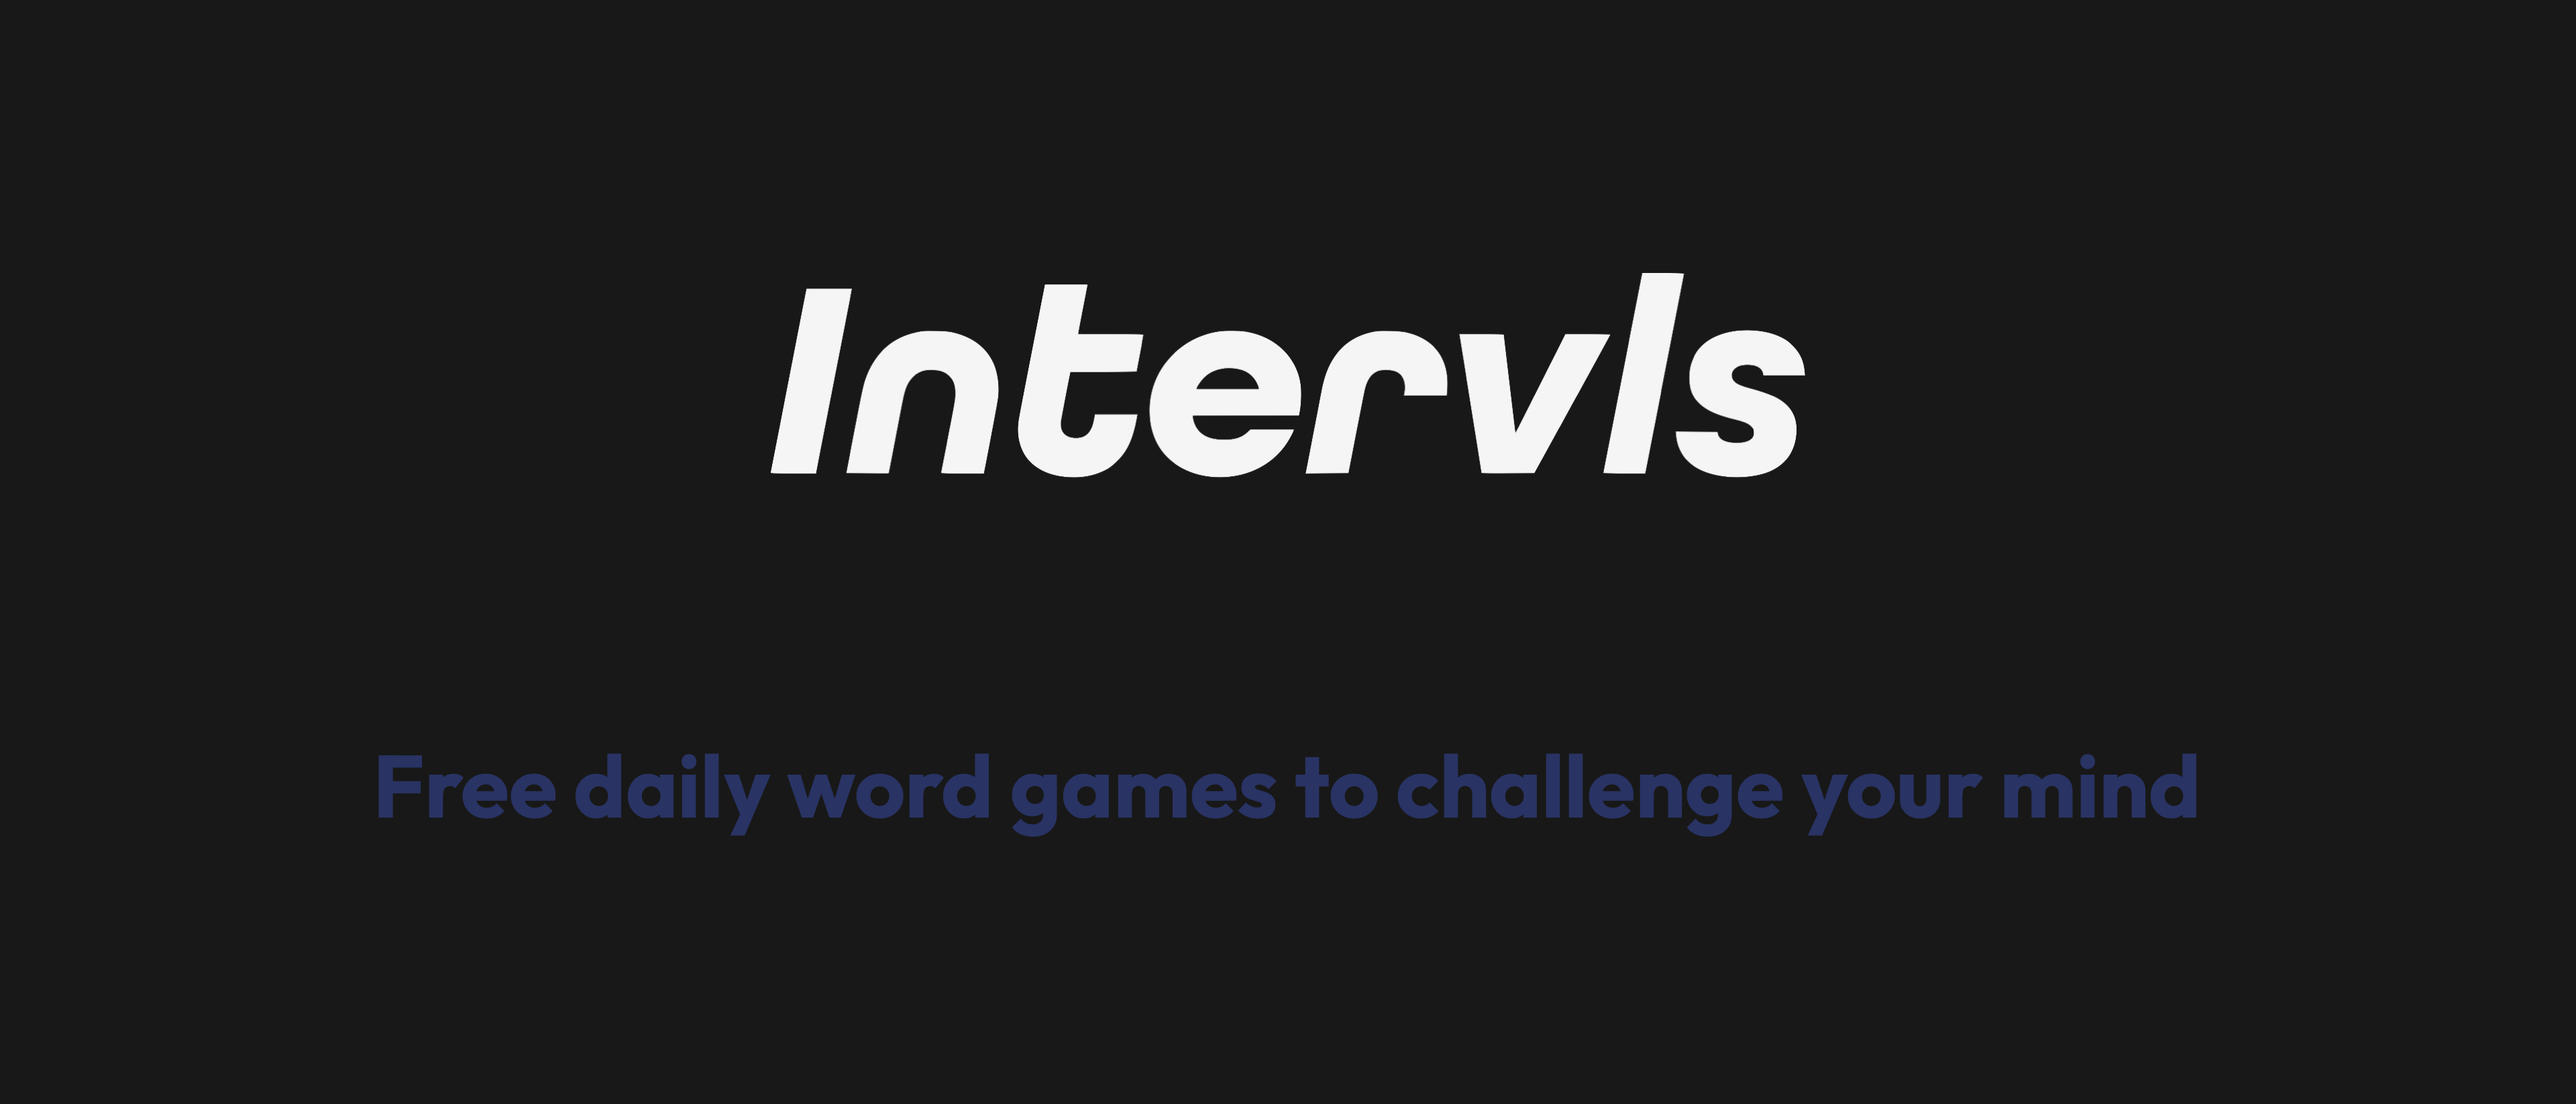
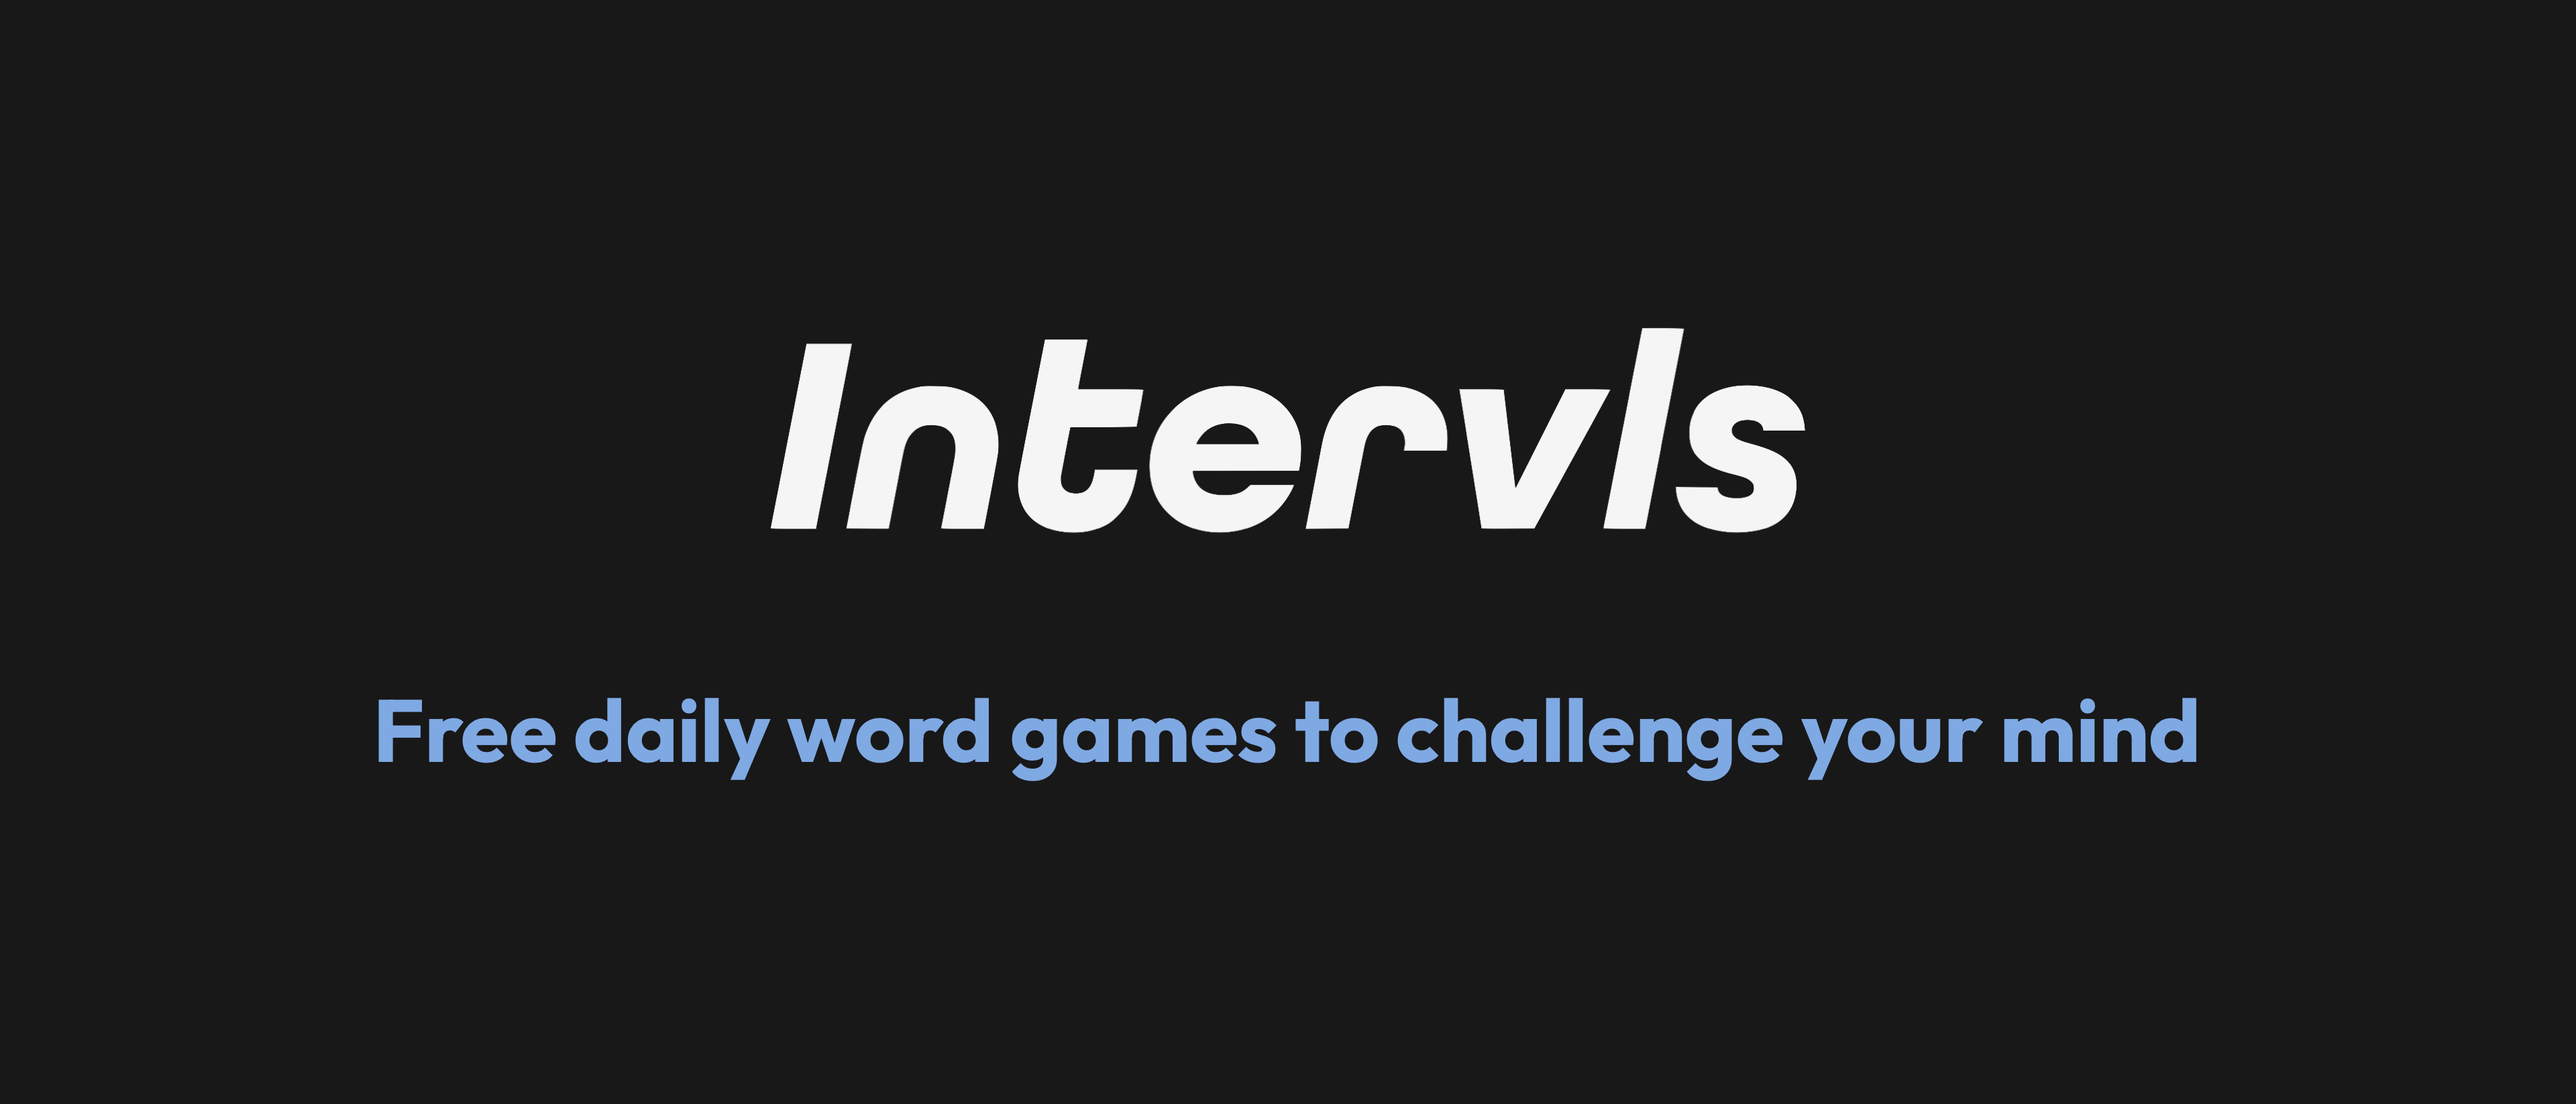
Update app store content

Changed region(s): [[0.2812, 0.2479, 0.7188, 0.4957], [0.125, 0.6197, 0.875, 0.7746]]

diff --git a/web/src/features/brand/releaseArtifacts.test.ts b/web/src/features/brand/releaseArtifacts.test.ts
@@ -11,7 +11,7 @@ const root = resolve(process.cwd(), "..");
 function read(path: string) { return readFileSync(resolve(root, path)); }
 
 // Decode the RGB PNG scanlines to check the exported pixels, including PNG filters.
-function colorCount(png: Buffer, target: readonly number[]) {
+function pixelBounds(png: Buffer, matches: (r: number, g: number, b: number) => boolean) {
   expect(png[24]).toBe(8);
   expect(png[25]).toBe(2);
   expect(png[28]).toBe(0);
@@ -25,6 +25,7 @@ function colorCount(png: Buffer, target: readonly number[]) {
   const data = inflateSync(Buffer.concat(chunks));
   const stride = width * 3;
   let previous = Buffer.alloc(stride), count = 0;
+  let minY = height, maxY = -1;
   for (let y = 0; y < height; y++) {
     const start = y * (stride + 1), filter = data[start];
     const row = Buffer.alloc(stride);
@@ -37,20 +38,56 @@ function colorCount(png: Buffer, target: readonly number[]) {
       const adjustment = [0, left, up, Math.floor((left + up) / 2), paeth][filter];
       row[x] = (data[start + 1 + x] + adjustment) & 255;
     }
-    for (let x = 0; x < stride; x += 3) if (row[x] === target[0] && row[x + 1] === target[1] && row[x + 2] === target[2]) count++;
+    for (let x = 0; x < stride; x += 3) {
+      if (matches(row[x], row[x + 1], row[x + 2])) {
+        count++;
+        minY = Math.min(minY, y);
+        maxY = Math.max(maxY, y);
+      }
+    }
     previous = row;
   }
-  return count;
+  return { count, minY, maxY, centerY: (minY + maxY) / 2 / height };
+}
+
+const promotionalBlue = [127, 169, 227] as const;
+const isPromotionalBlue = (r: number, g: number, b: number) =>
+  r === promotionalBlue[0] && g === promotionalBlue[1] && b === promotionalBlue[2];
+function luminance(rgb: readonly number[]) {
+  const linear = rgb.map((value) => {
+    const channel = value / 255;
+    return channel <= 0.04045 ? channel / 12.92 : ((channel + 0.055) / 1.055) ** 2.4;
+  });
+  return linear[0] * 0.2126 + linear[1] * 0.7152 + linear[2] * 0.0722;
 }
 
 describe("Intervls release artifacts", () => {
   it.each([
     "docs/intervls-brand/social-cover-1640x624.png",
+    "docs/intervls-brand/social-preview-1200x630.png",
     "web/public/brand/intervls-social-preview.png",
     "docs/intervls-brand/app-store-header-3840x1646.png",
     "docs/intervls-brand/app-store-header-5244x2950.png"
-  ])("uses the Backword dark Home-card blue in %s", (path) => {
-    expect(colorCount(read(path), [41, 51, 100])).toBeGreaterThan(500);
+  ])("uses legible light-blue promotional text in %s", (path) => {
+    expect(pixelBounds(read(path), isPromotionalBlue).count).toBeGreaterThan(500);
+    expect((luminance(promotionalBlue) + 0.05) / (luminance([24, 24, 24]) + 0.05)).toBeGreaterThan(7);
+  });
+  it.each([
+    ["app-store-header-3840x1646.png", 0.39, 0.67],
+    ["app-store-header-5244x2950.png", 0.34, 0.72]
+  ] as const)("keeps the title and subtitle inside the intended crop in %s", (name, titleCenter, subtitleCenter) => {
+    const png = read(`docs/intervls-brand/${name}`);
+    const title = pixelBounds(png, (r, g, b) => r > 220 && g > 220 && b > 220);
+    const subtitle = pixelBounds(png, isPromotionalBlue);
+    expect(title.count).toBeGreaterThan(500);
+    expect(subtitle.count).toBeGreaterThan(500);
+    expect(title.centerY).toBeCloseTo(titleCenter, 2);
+    expect(subtitle.centerY).toBeCloseTo(subtitleCenter, 2);
+    expect(title.maxY).toBeLessThan(subtitle.minY);
+  });
+  it("keeps the website link preview identical to the social export", () => {
+    expect(read("web/public/brand/intervls-social-preview.png"))
+      .toEqual(read("docs/intervls-brand/social-preview-1200x630.png"));
   });
   it("keeps the approved marketing line in launch copy and the artwork renderer", () => {
     const metadata = JSON.parse(read("docs/intervls-rebrand/app-store-metadata.en-GB.json").toString());

diff --git a/docs/intervls-brand/render-brand.swift b/docs/intervls-brand/render-brand.swift
@@ -14,8 +14,8 @@ let web = root.appendingPathComponent("web/public/brand")
 let fm = FileManager.default
 let colorSpace = CGColorSpace(name: CGColorSpace.sRGB)!
 let background = CGColor(srgbRed: 0.094, green: 0.094, blue: 0.094, alpha: 1)
-// Opaque sRGB equivalent of the iOS Dark Mode Backword Home card (#293364).
-let blue = CGColor(srgbRed: 41.0 / 255, green: 51.0 / 255, blue: 100.0 / 255, alpha: 1)
+// Promotional text needs a lighter blue against the near-black canvas (#7FA9E3).
+let blue = CGColor(srgbRed: 127.0 / 255, green: 169.0 / 255, blue: 227.0 / 255, alpha: 1)
 for directory in [output, web] { try fm.createDirectory(at: directory, withIntermediateDirectories: true) }
 
 func bitmap(_ width: Int, _ height: Int, alpha: Bool) -> CGContext {
@@ -156,19 +156,23 @@ func drawTagline(_ context: CGContext, center: CGPoint, size: CGFloat) {
     context.textPosition = CGPoint(x: center.x - box.midX, y: center.y - box.midY)
     CTLineDraw(line, context)
 }
-func poster(_ name: String, _ width: Int, _ height: Int, tagline: Bool = true) throws {
+func poster(_ name: String, _ width: Int, _ height: Int, tagline: Bool = true, landscapeHeader: Bool = false) throws {
     let context = bitmap(width, height, alpha: false)
     context.setFillColor(background); context.fill(CGRect(x: 0, y: 0, width: width, height: height))
     // Do not enlarge the supplied raster wordmark, including in the largest promotional exports.
     let markWidth = min(CGFloat(width) * 0.7, dark.crop.width - 4)
-    drawLogo(dark, in: CGRect(x: (CGFloat(width) - markWidth) / 2, y: CGFloat(height) * (tagline ? 0.47 : 0.28),
+    // Quartz Y increases upward. Bring the wide header's lettering inward by 5% of
+    // the canvas height on each side, leaving more clearance for App Store cropping.
+    let logoY: CGFloat = tagline ? (landscapeHeader ? 0.42 : 0.47) : 0.28
+    let taglineY: CGFloat = landscapeHeader ? 0.33 : 0.28
+    drawLogo(dark, in: CGRect(x: (CGFloat(width) - markWidth) / 2, y: CGFloat(height) * logoY,
                              width: markWidth, height: CGFloat(height) * 0.38), context: context)
-    if tagline { drawTagline(context, center: CGPoint(x: CGFloat(width) / 2, y: CGFloat(height) * 0.28), size: CGFloat(width) * 0.034) }
+    if tagline { drawTagline(context, center: CGPoint(x: CGFloat(width) / 2, y: CGFloat(height) * taglineY), size: CGFloat(width) * 0.034) }
     try pngData(context.makeImage()!).write(to: output.appendingPathComponent(name))
 }
 try poster("social-cover-1640x624.png", 1640, 624)
 try poster("social-preview-1200x630.png", 1200, 630)
-try poster("app-store-header-3840x1646.png", 3840, 1646)
+try poster("app-store-header-3840x1646.png", 3840, 1646, landscapeHeader: true)
 try poster("app-store-header-5244x2950.png", 5244, 2950)
 try poster("app-store-search-3840x2560.png", 3840, 2560, tagline: false)
 let ogTarget = web.appendingPathComponent("intervls-social-preview.png")

diff --git a/docs/intervls-brand/README.md b/docs/intervls-brand/README.md
@@ -55,7 +55,12 @@ swift docs/intervls-brand/render-brand.swift "$PWD"
 This updates the website wordmarks/link preview, iOS wordmark image sets, and wordmark-based promotional exports. Outfit is used only for the existing tagline. Game logos, source files, icons, and original screenshots are preserved. Review the updated app in Xcode before release; fresh screenshots/video remain outstanding.
 
 The promotional tagline is **Free daily word games to challenge your mind**.
-Its blue matches the iOS Backword Home card in Dark Mode: opaque sRGB `#293364`.
+Its light blue is opaque sRGB `#7FA9E3`, chosen for legibility on the near-black
+background. The wide 3840 × 1646 header brings the wordmark down and tagline up
+by 5% of the image height each, giving both more clearance in the landscape
+App Store crop. The taller header and social layouts retain their spacing.
+These are static images: the wider header's adjustment applies wherever that
+asset is displayed, so check its App Store preview after upload.
 Add `--promotional-only` to regenerate only PNG promotional artwork and the
 website link preview while preserving the imported wordmark PDFs/SVGs.
 

diff --git a/CONVENTIONS.md b/CONVENTIONS.md
@@ -20,8 +20,12 @@ inbound forwarding only, not published contact addresses.
 The browser Home title is `Intervls — Free daily word games`. Marketing copy uses
 `Free daily word games to challenge your mind`, including social previews and
 promotional artwork. Keep page-specific game titles and Pro access explanations.
-App Store and social promotional text uses the iOS Dark Mode Backword Home
-card's opaque sRGB surface colour, `#293364`.
+App Store and social promotional text uses light blue `#7FA9E3` for contrast
+against the near-black artwork background. The wider 3840 × 1646 App Store
+header moves the wordmark down and the tagline up by 5% of the canvas height
+each to allow more room for landscape cropping. The taller 5244 × 2950 header
+retains its original layout. These are static exports; spacing changes apply
+wherever the App Store displays that asset, rather than to a device orientation.
 
 The subscription logo retains the existing gold PRO artwork (`Pro` on iOS,
 `/brand/backword-pro.png` on the web), including its original lettering. Do not
